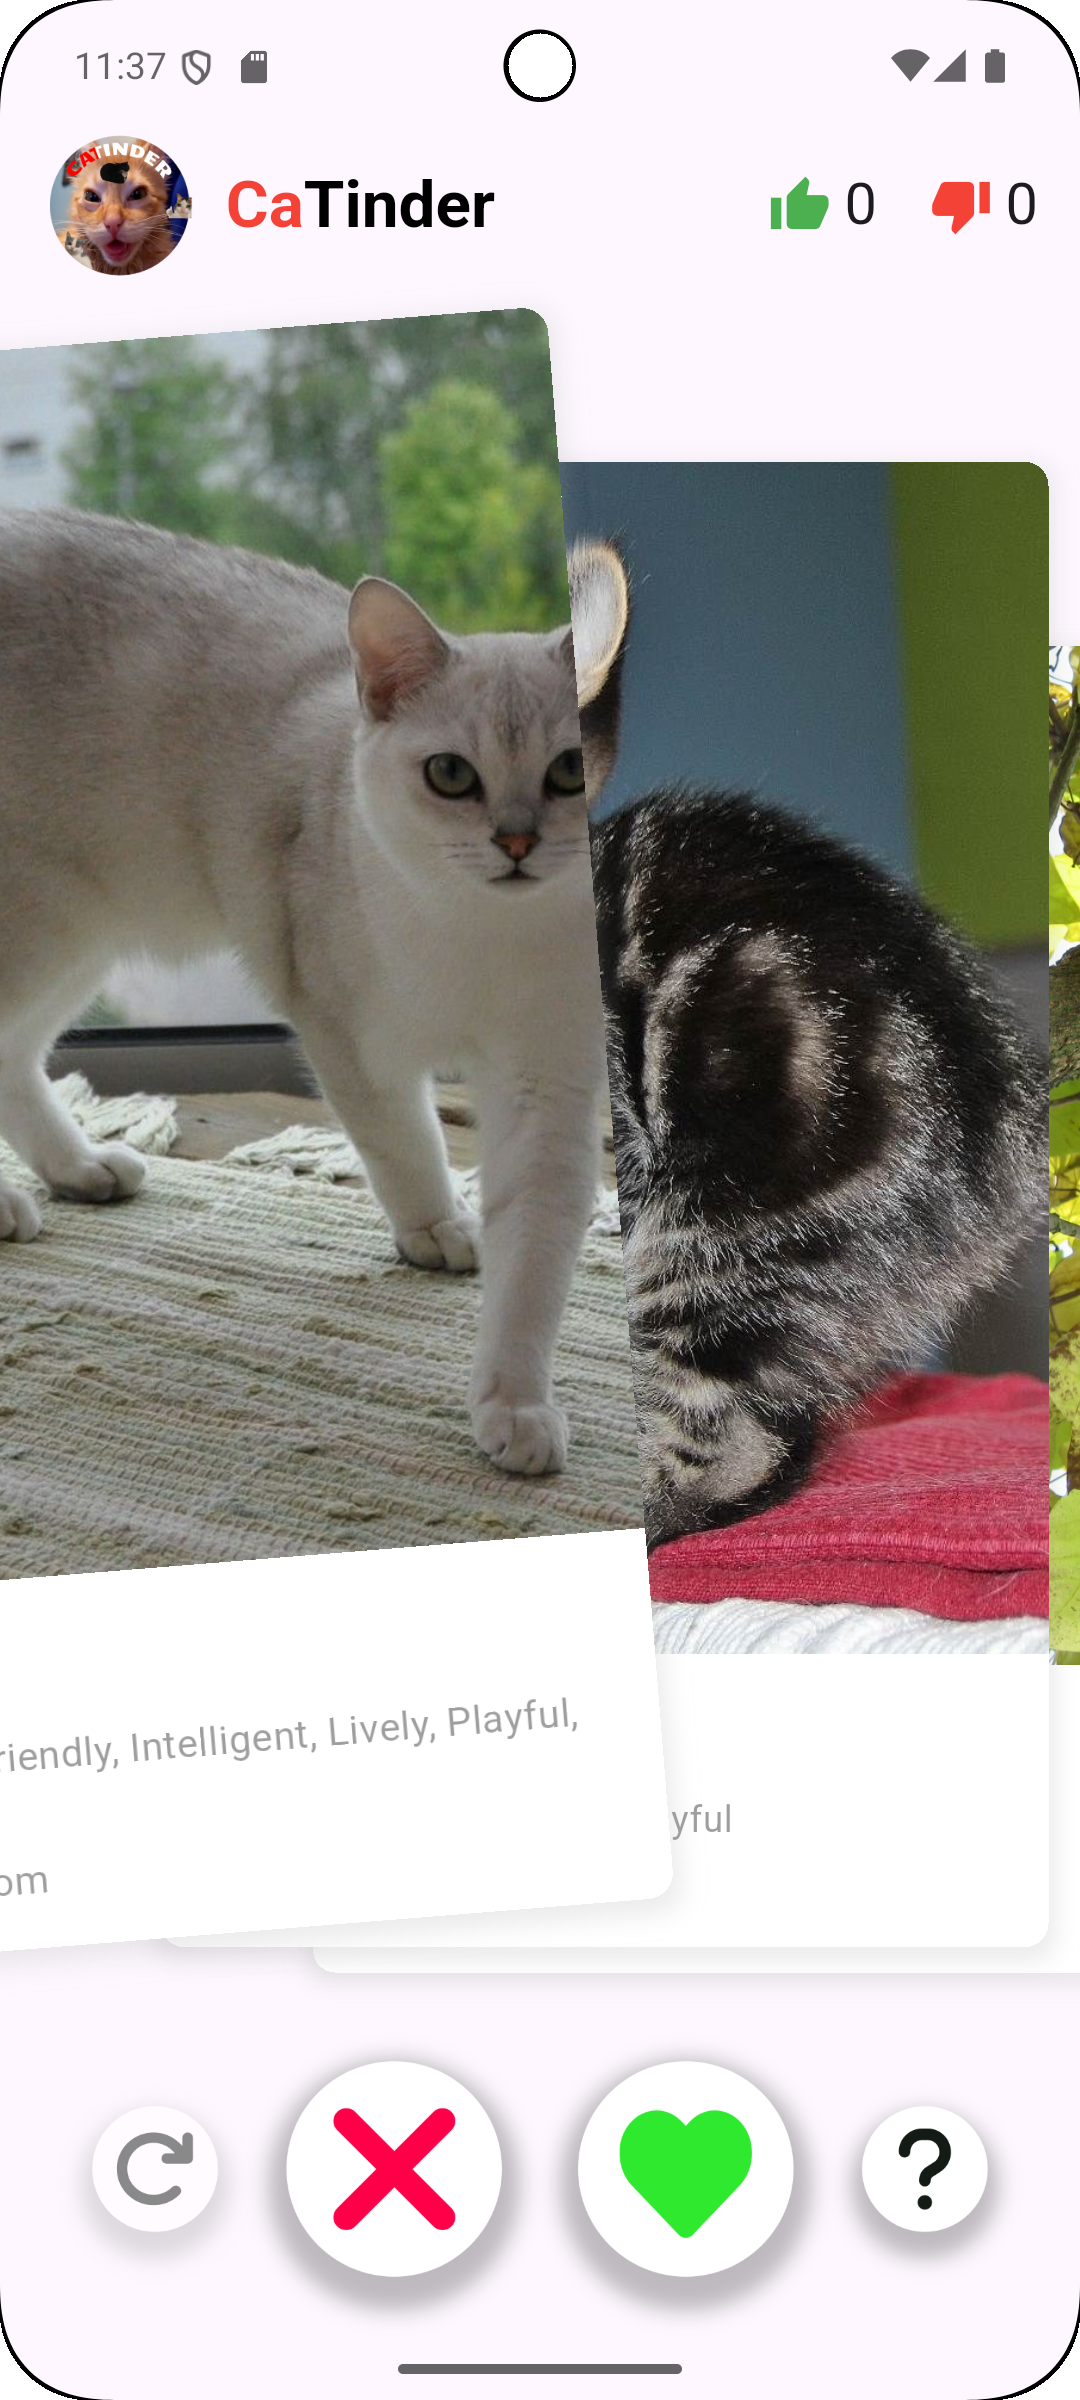
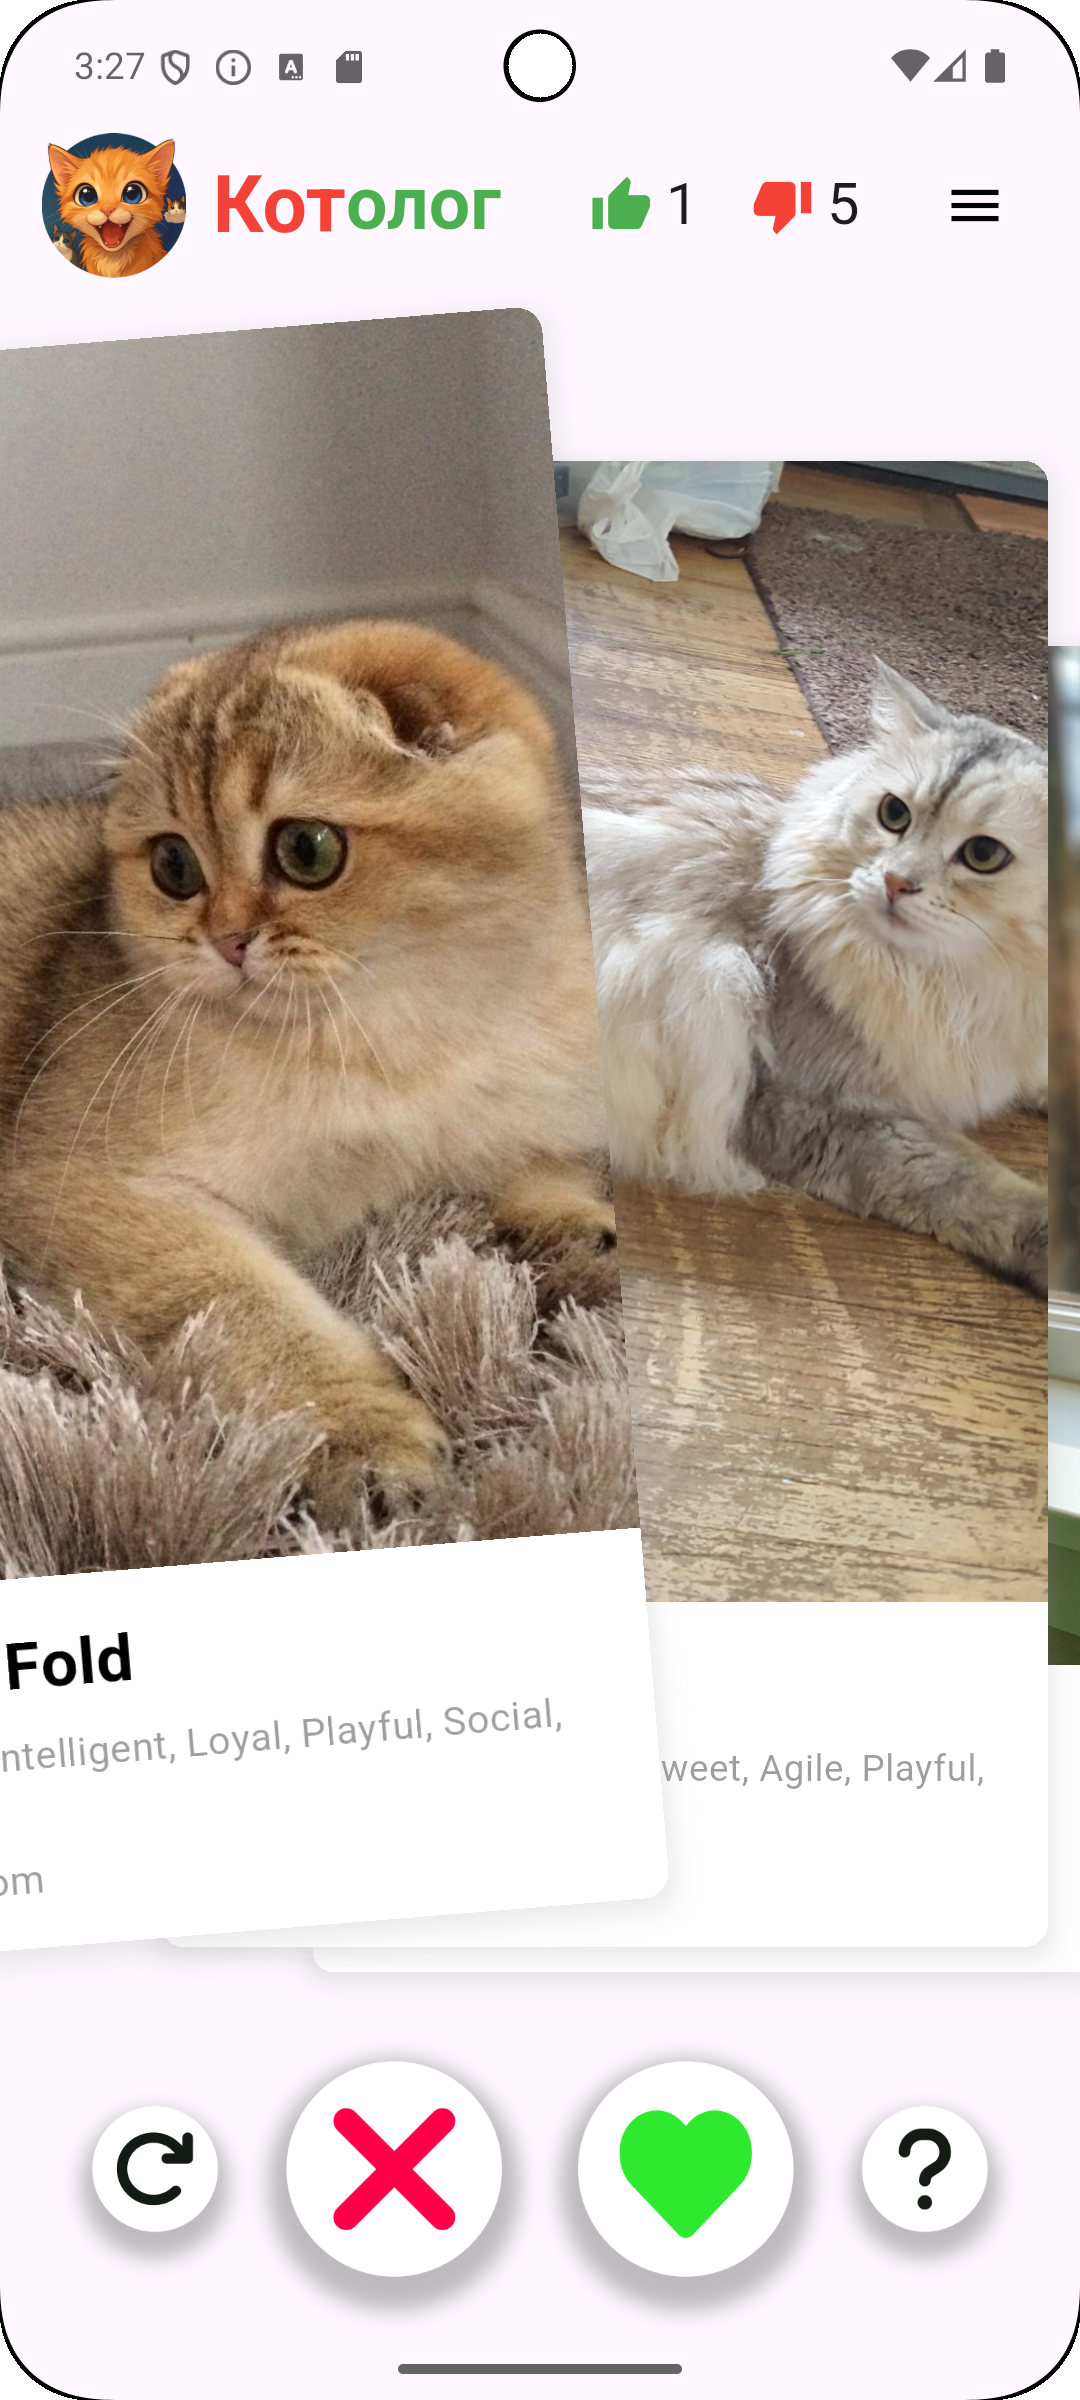
final EXTREMELY SMALL changes

diff --git a/lib/presentation/screens/home_screen.dart b/lib/presentation/screens/home_screen.dart
@@ -162,22 +162,22 @@ class _HomeScreenState extends State<HomeScreen> {
       appBar: AppBar(
         title: Row(
           children: [
-            Image.asset('assets/icon/icon.png', height: 60),
+            Image.asset('assets/icon/icon.png', height: 55),
             const SizedBox(width: 10),
             const Text(
-              'Ca',
+              'Кот',
               style: TextStyle(
                 fontWeight: FontWeight.bold,
                 color: Colors.red,
-                fontSize: 25,
+                fontSize: 30,
               ),
             ),
             const Text(
-              'Tinder',
+              'олог',
               style: TextStyle(
                 fontWeight: FontWeight.bold,
-                color: Colors.black,
-                fontSize: 25,
+                color: Colors.green,
+                fontSize: 28,
               ),
             ),
             const Spacer(),

diff --git a/lib/presentation/screens/liked_cats_screen.dart b/lib/presentation/screens/liked_cats_screen.dart
@@ -29,7 +29,7 @@ class _LikedCatsScreenState extends State<LikedCatsScreen> {
     return Scaffold(
       appBar: AppBar(
         title: const Text(
-          'История лайков',
+          'Кладесь котиков',
           style: TextStyle(fontSize: 30, fontWeight: FontWeight.bold),
         ),
         actions: [
@@ -86,7 +86,7 @@ class _LikedCatsScreenState extends State<LikedCatsScreen> {
                     state.cats.isEmpty
                         ? const Center(
                           child: Text(
-                            'Никакой котик тебе не понравился :(',
+                            'Пока никакой котик тебе не понравился :(',
                             style: TextStyle(fontSize: 16, color: Colors.grey),
                           ),
                         )

diff --git a/README.md b/README.md
@@ -1,30 +1,73 @@
-## Описание проекта
+# 🐱 Котолог — каталог твоих будущих котов
 
-CaTinder - это лучшее приложение для любителей кошек! Здесь пользователи могут просматривать фотографии кошек, 
-ставить лайки или дизлайки, просматривать подробную информацию и отменять последний лайк или дизлайк. Также сверху видно счётчик лайков и дизлайков и лайков.
-Приложение выполнено в минималистичном дизайне с простыми иконками и решениями.
+**Котолог** — это мобильное приложение, продолжающее идею CaTinder, но теперь ещё круче! У нас
+прошёл ребрендинг и дизайн стал лаконичнее. Теперь свайпать котиков стало ещё приятнее! Кроме того,
+было добавлено меню с понравившимися котиками, что ну оооочень удобно, чтобы сравнивать разные
+породы. Ставьте лайки, дизайлки, свайпайте, фильтруйте породы и, конечно, наслаждайтесь новым
+дизайном и иконкой!
 
-## Реализованные функции
 
-- Просмотр фотографий кошек (свайп или использование кнопок)
-- Лайк или дизлайк кошек
-- Просмотр подробной информации о каждой кошке на кнопку "вопрос" или по нажатию на карточку
-- Отмена последнего лайка или дизлайка
-- Счетчики лайков и дизлайков
-- Динамическое состояние кнопки отмены
+---
 
-## Интерфейс приложения
+## 📌 Описание проекта
 
-<div style="display: flex; justify-content: space-evenly;">
-  <img src="assets/screenshots/home.png" width="300" alt="Главный экран">
-  <img src="assets/screenshots/swipe.png" width="300" alt="Cвайп главного экрана">
+### Базовые фичи:
+
+- Просмотр фотографий кошек (свайп карточек или кнопками).
+- Лайк или дизлайк кошек.
+- Просмотр подробной информации о каждой кошке (по нажатию на кнопку "вопрос" или на карточку).
+- Отмена последнего лайка или дизлайка.
+- Счётчики лайков и дизлайков.
+- Динамическое включение/отключение кнопки отмены действия.
+
+### Новые фичи:
+
+- Отдельный экран со списком лайкнутых кошек.
+- Фильтрация лайкнутых кошек по породе.
+- Удаление кошек из списка свайпом влево.
+
+## 📸 Обзор
+
+### Изменилось название и иконка приложения
+---
+<div style="display: flex;">
+  <img src="assets/screenshots/home.png" width="300" alt="Главный экран">  &nbsp
+    <img src="assets/screenshots/swipe.png" width="300" alt="Cвайп главного экрана">
 </div>
 
-<div style="display: flex; justify-content: space-evenly;">
-  <img src="assets/screenshots/detail.png" width="300" alt="Экран с подробной информацией">
-  <img src="assets/screenshots/swipe_detail.png" width="300" alt="Свайп доп инфы">
+---
+
+### При плохом соединении появляется индикатор загрузки `CircularProgressIndicator` или ошибка
+---
+<div style="display: flex;">
+  <img src="assets/screenshots/load.png" width="300" alt="Картинка"> &nbsp
+    <img src="assets/screenshots/error.png" width="300" alt="Картинка">
 </div>
 
-## Скачивание
+---
 
-[Скачать последнюю версию APK](https://disk.yandex.ru/d/RBCARTZCkKDqyA)
+---
+### Можно посмотреть детальную информацию, нажав на карточку с котиком. Информацию можно листать. По сравнениюс предыдущей версией, был убран крестик. Теперь выход через нажатие на "черный фон" или свайп вниз.
+---
+<div style="display: flex;">
+  <img src="assets/screenshots/detail_1.png" width="300" alt="Картинка">&nbsp
+  <img src="assets/screenshots/detail_2.png" width="300" alt="Картинка">&nbsp
+  <img src="assets/screenshots/detail_exit.png" width="300" alt="Картинка">
+</div>
+
+---
+
+### Добавлено меню с лайкнутыми котиками. Удалять котиков можно свайпом влево. Также есть фильтр пород, который появляется по нажатию на кнопку. Удаление котиков уменьшает счётчик лайков. Хранение только в рантайме
+---
+<div style="display: flex;">
+  <img src="assets/screenshots/list.png" width="300" alt="Картинка">&nbsp
+  <img src="assets/screenshots/list_delete.png" width="300" alt="Картинка">&nbsp
+  <img src="assets/screenshots/list_filter.png" width="300" alt="Картинка">&nbsp
+  <img src="assets/screenshots/list_filter_list.png" width="300" alt="Картинка">
+</div>
+
+---
+
+## 📦 Установка
+
+[Скачать последнюю версию APK](https://disk.yandex.ru/d/ChAB3NQxRC2R4w)
